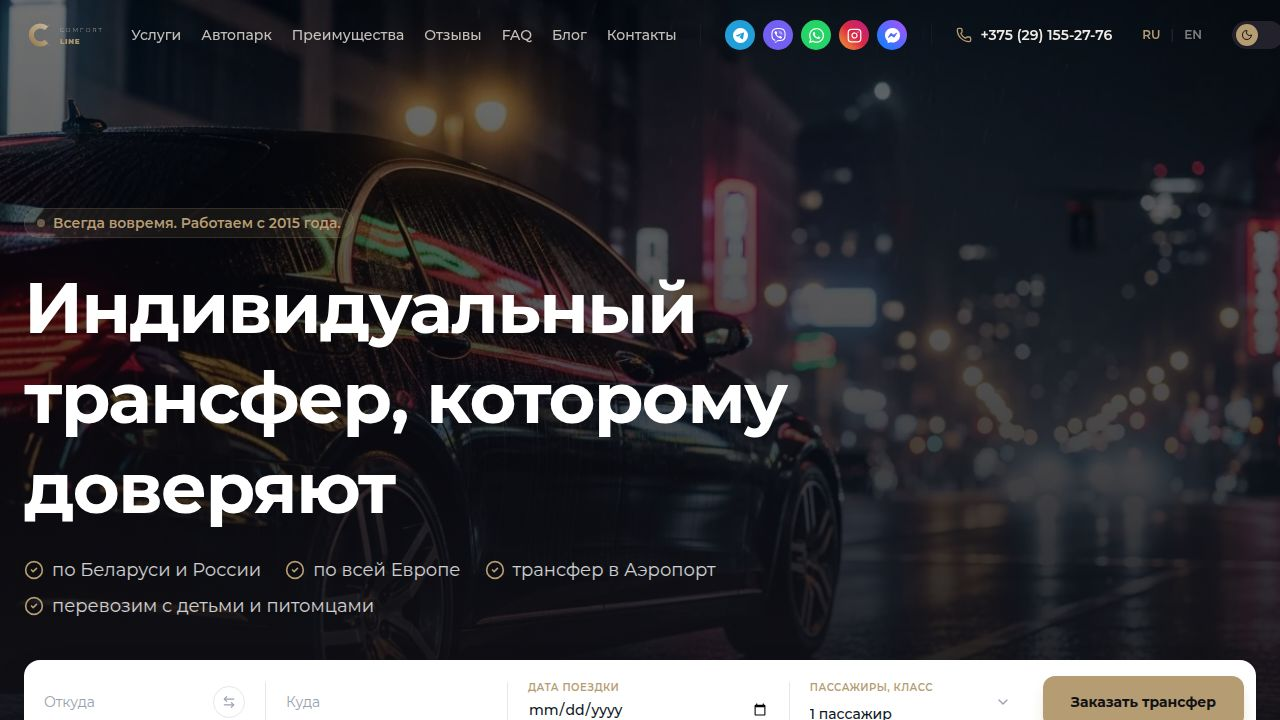
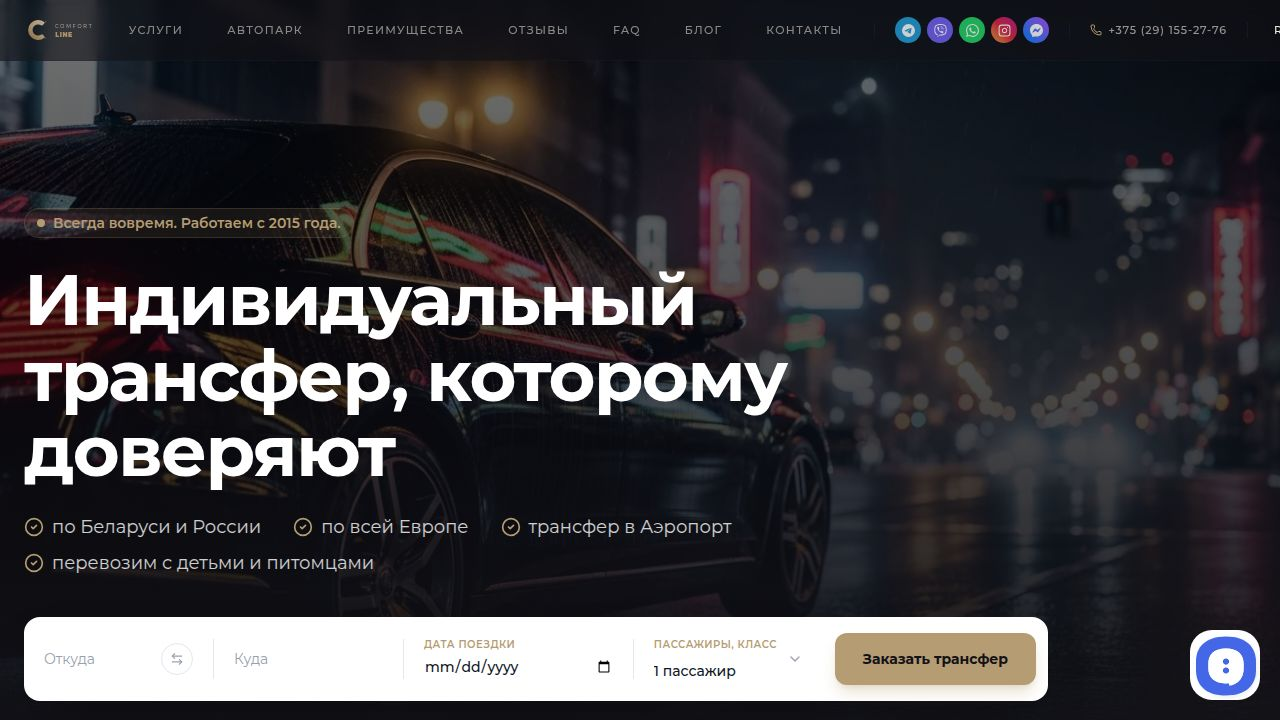
Improve SEO ranking for English pages by detecting language from URL
Update language detection logic to prioritize URL path over search parameters, ensuring correct language rendering and SEO metadata for all page types.

Replit-Commit-Author: Agent
Replit-Commit-Session-Id: a73a8c5f-6143-46ae-9653-345b9459740f
Replit-Commit-Checkpoint-Type: full_checkpoint
Replit-Commit-Event-Id: 4ed37db7-419f-4fd9-9816-1f85ee453da9
Replit-Commit-Screenshot-Url: https://storage.googleapis.com/screenshot-production-us-central1/cfb9d050-eac5-4e45-8ae6-95fe910dad93/a73a8c5f-6143-46ae-9653-345b9459740f/lRN9zI7
Replit-Helium-Checkpoint-Created: true

diff --git a/artifacts/comfortline-website/src/seo/Seo.tsx b/artifacts/comfortline-website/src/seo/Seo.tsx
@@ -23,24 +23,28 @@ interface SeoProps {
 
 export function Seo(props: SeoProps) {
   const { lang } = useLang();
-  const isRu = lang === "ru";
-  const title = isRu ? props.titleRu : props.titleEn;
-  const description = isRu ? props.descRu : props.descEn;
-  const keywords = isRu ? props.keywordsRu : props.keywordsEn;
+  const isRu = lang === "ru"; // UI language — used for breadcrumbs and JSON-LD (follows user preference)
 
-  // Canonical must reflect the ACTUAL URL the user is on, not the user's language.
-  // Otherwise visiting /minsk-vilnius-airport while in RU mode would canonical away to
-  // the RU URL and Google would de-index the EN URL (a real SEO bug).
+  // SEO language — derived from the ACTUAL URL, not the user's preference.
+  // This ensures Googlebot sees the correct title/description/<html lang> for each URL variant.
+  // e.g. a RU-preferring user on /minsk-vilnius-airport still gets EN meta tags.
+  let seoIsRu = isRu;
   let canonicalPath = isRu ? props.pathRu : props.pathEn;
   if (typeof window !== "undefined") {
     const livePath = window.location.pathname;
-    // Match by URL — first try the literal RU path, then EN, otherwise keep language default.
-    if (livePath === props.pathRu || decodeURIComponent(livePath) === props.pathRu) {
+    const decodedPath = decodeURIComponent(livePath);
+    if (livePath === props.pathRu || decodedPath === props.pathRu) {
+      seoIsRu = true;
       canonicalPath = props.pathRu;
     } else if (livePath === props.pathEn) {
+      seoIsRu = false;
       canonicalPath = props.pathEn;
     }
   }
+
+  const title = seoIsRu ? props.titleRu : props.titleEn;
+  const description = seoIsRu ? props.descRu : props.descEn;
+  const keywords = seoIsRu ? props.keywordsRu : props.keywordsEn;
 
   const allJsonLd: object[] = [];
   if (!props.noBusinessJsonLd) allJsonLd.push(localBusinessJsonLd(lang));
@@ -73,7 +77,7 @@ export function Seo(props: SeoProps) {
     ogType: props.ogType,
     keywords,
     jsonLd: allJsonLd,
-    lang: isRu ? "ru" : "en",
+    lang: seoIsRu ? "ru" : "en",
     robots: props.noindex ? "noindex, nofollow" : undefined,
   });
 

diff --git a/artifacts/comfortline-website/src/context/language-context.tsx b/artifacts/comfortline-website/src/context/language-context.tsx
@@ -647,7 +647,23 @@ const LanguageContext = createContext<LanguageContextType>({
 function getInitialLang(): Lang {
   const param = new URLSearchParams(window.location.search).get("lang");
   if (param === "en" || param === "ru") return param;
-  return "ru";
+
+  const path = window.location.pathname;
+
+  // Cyrillic characters in the path → always Russian
+  if (/[\u0400-\u04FF]/.test(path)) return "ru";
+
+  // Paths that are shared between both languages (same URL) → default Russian
+  const normalized = path.replace(/\/+$/, "") || "/";
+  const sharedPaths = ["/", "/faq", "/privacy", "/terms", "/brandbook", "/thank-you"];
+  if (sharedPaths.includes(normalized)) return "ru";
+
+  // Blog is Russian-only content; /blog/ is the Latin alias for /блог/
+  if (normalized === "/blog" || normalized.startsWith("/blog/")) return "ru";
+
+  // Latin-only slug that is not a shared path → English service page
+  // e.g. /minsk-vilnius-airport, /warsaw-transfer, /mercedes-e-class-transfer
+  return "en";
 }
 
 export function LanguageProvider({ children }: { children: ReactNode }) {